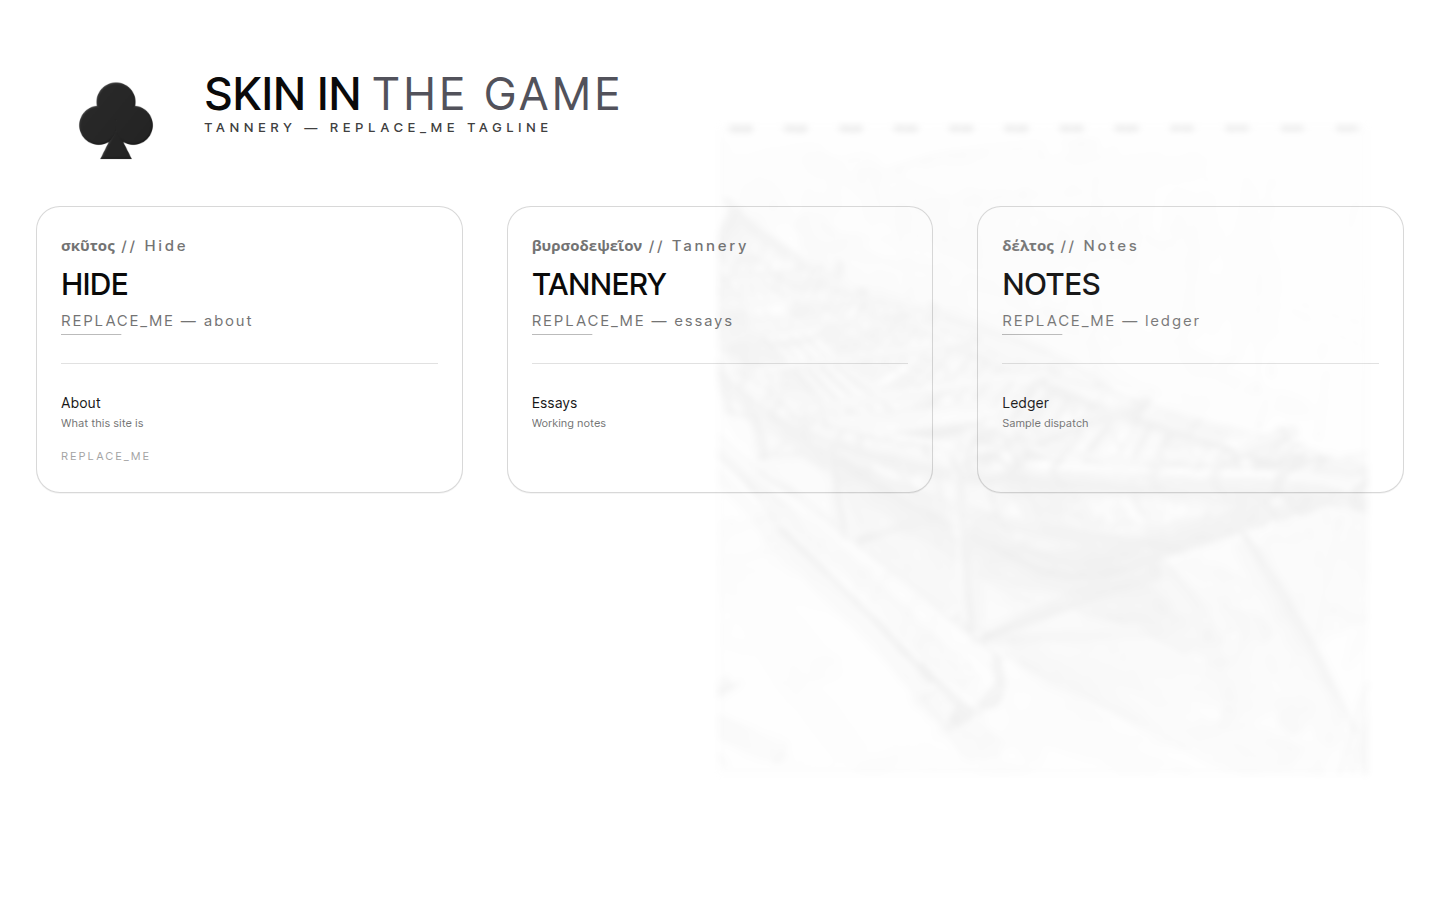
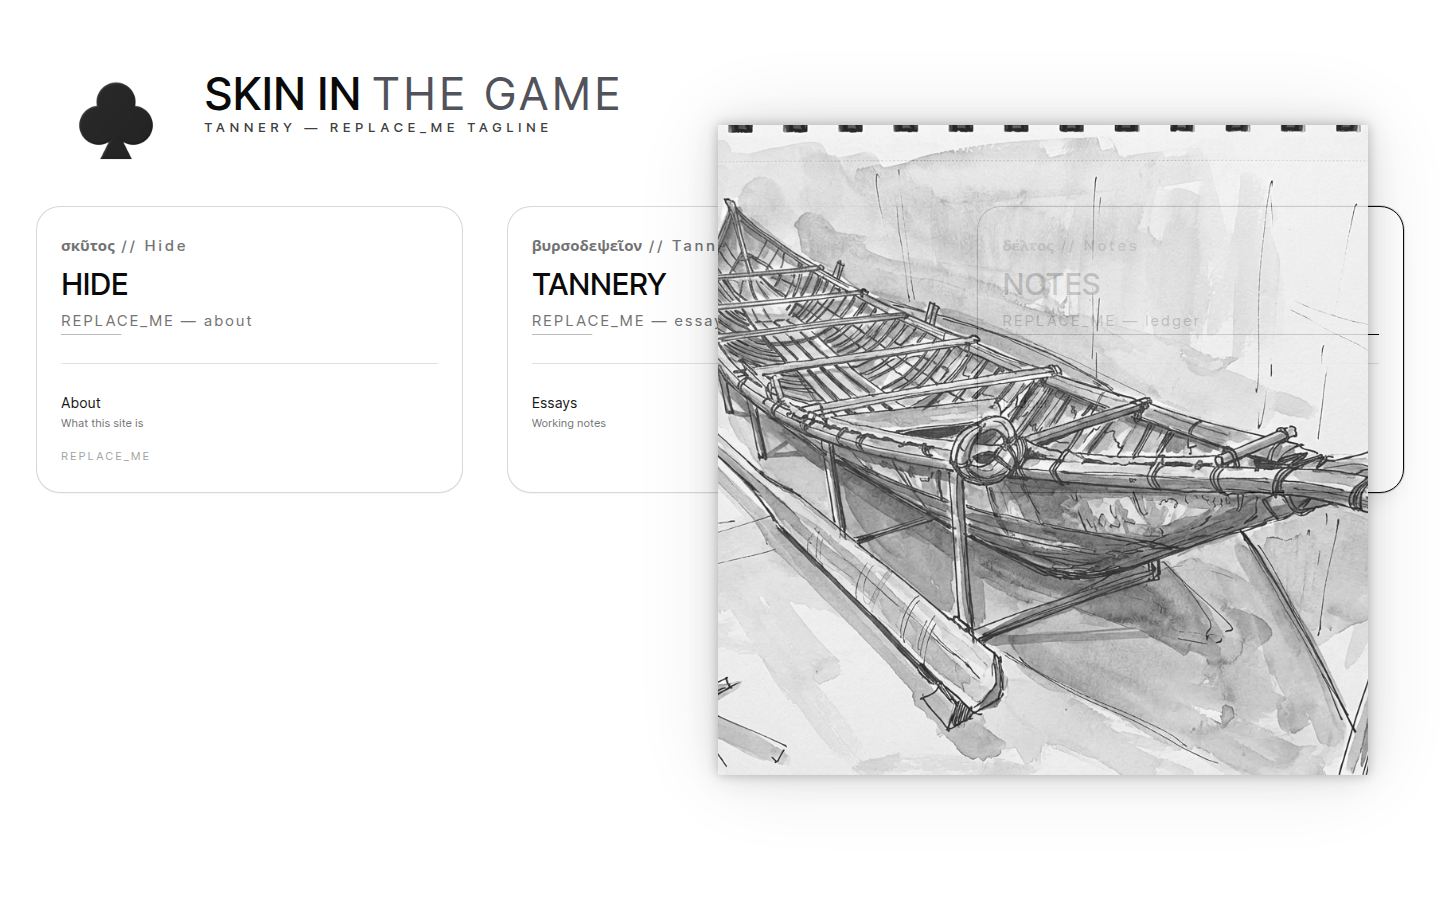
Show the plate-split essay format in the README previews.
The welcome plate was a transparent sundial, so the emerald mat filled a flat square and the 0.2em title tracking still read as a display headline. Hug the mat to the picture, keep the 27px plate title, and capture the home skin watermark where it actually reads.

Changed region(s): [[0.4688, 0.1244, 0.9688, 0.8711]]

diff --git a/src/app/globals.css b/src/app/globals.css
@@ -726,6 +726,9 @@
 
   .p3-narrative-body--with-plate > .p3-narrative-body__lead .p3-narrative-article__title {
     margin-top: 0;
+    /* Drop the 0.2em display tracking so a 27px plate title stays a title. */
+    letter-spacing: 0.06em;
+    line-height: 1.2;
   }
 
   .p3-narrative-body--with-plate > .p3-narrative-body__lead > .p3-narrative-figure--plate {
@@ -799,7 +802,15 @@
   box-sizing: border-box;
   padding: var(--p3-photo-emerald-mat-gap);
   border: 0;
-  background: var(--p3-photo-emerald-mat-fill);
+  /* Emerald is the padding ring only. A second layer fills the content box
+     with the light canvas so a transparent SVG cannot turn the mat into a
+     flat emerald field. Opaque plates cover that layer with their own pixels. */
+  background-color: transparent;
+  background-image:
+    linear-gradient(#fafafa, #fafafa),
+    linear-gradient(var(--p3-photo-emerald-mat-fill), var(--p3-photo-emerald-mat-fill));
+  background-origin: content-box, padding-box;
+  background-clip: content-box, padding-box;
   border-radius: var(--p3-photo-emerald-mat-radius);
   overflow: hidden;
   box-shadow:

diff --git a/src/lib/essay-header-css.test.ts b/src/lib/essay-header-css.test.ts
@@ -67,6 +67,14 @@ test("desktop plate-split locks the left lead and scrolls copy", () => {
     /\.p3-narrative-body--with-plate\s*>\s*\.p3-narrative-body__copy\s*\{[^}]*overflow-y:\s*auto/s
   );
   assert.match(css, /--p3-photo-emerald-mat-fill:\s*rgba\(16,\s*185,\s*129,\s*0\.85\)/);
+  assert.match(
+    css,
+    /\.p3-narrative-figure__img[\s\S]*background-clip:\s*content-box,\s*padding-box/
+  );
+  assert.match(
+    css,
+    /\.p3-narrative-body--with-plate\s*>\s*\.p3-narrative-body__lead\s+\.p3-narrative-article__title\s*\{[^}]*letter-spacing:\s*0\.06em/s
+  );
 });
 
 test("compass watermark size tokens stay untouched", () => {

diff --git a/ontology/tannery/welcome.md b/ontology/tannery/welcome.md
@@ -6,9 +6,9 @@ stage: published
 order: 1
 publishedAt: 2026-01-02
 series: tannery
-image: /visuals/sundial_letters_outer.svg
+image: /visuals/skin.png
 imageRole: inset
-imageAlt: Sundial watermark
+imageAlt: Ink and wash sketch of a canoe hull on a workshop frame
 tags:
   - REPLACE_ME
 showInNav: true
